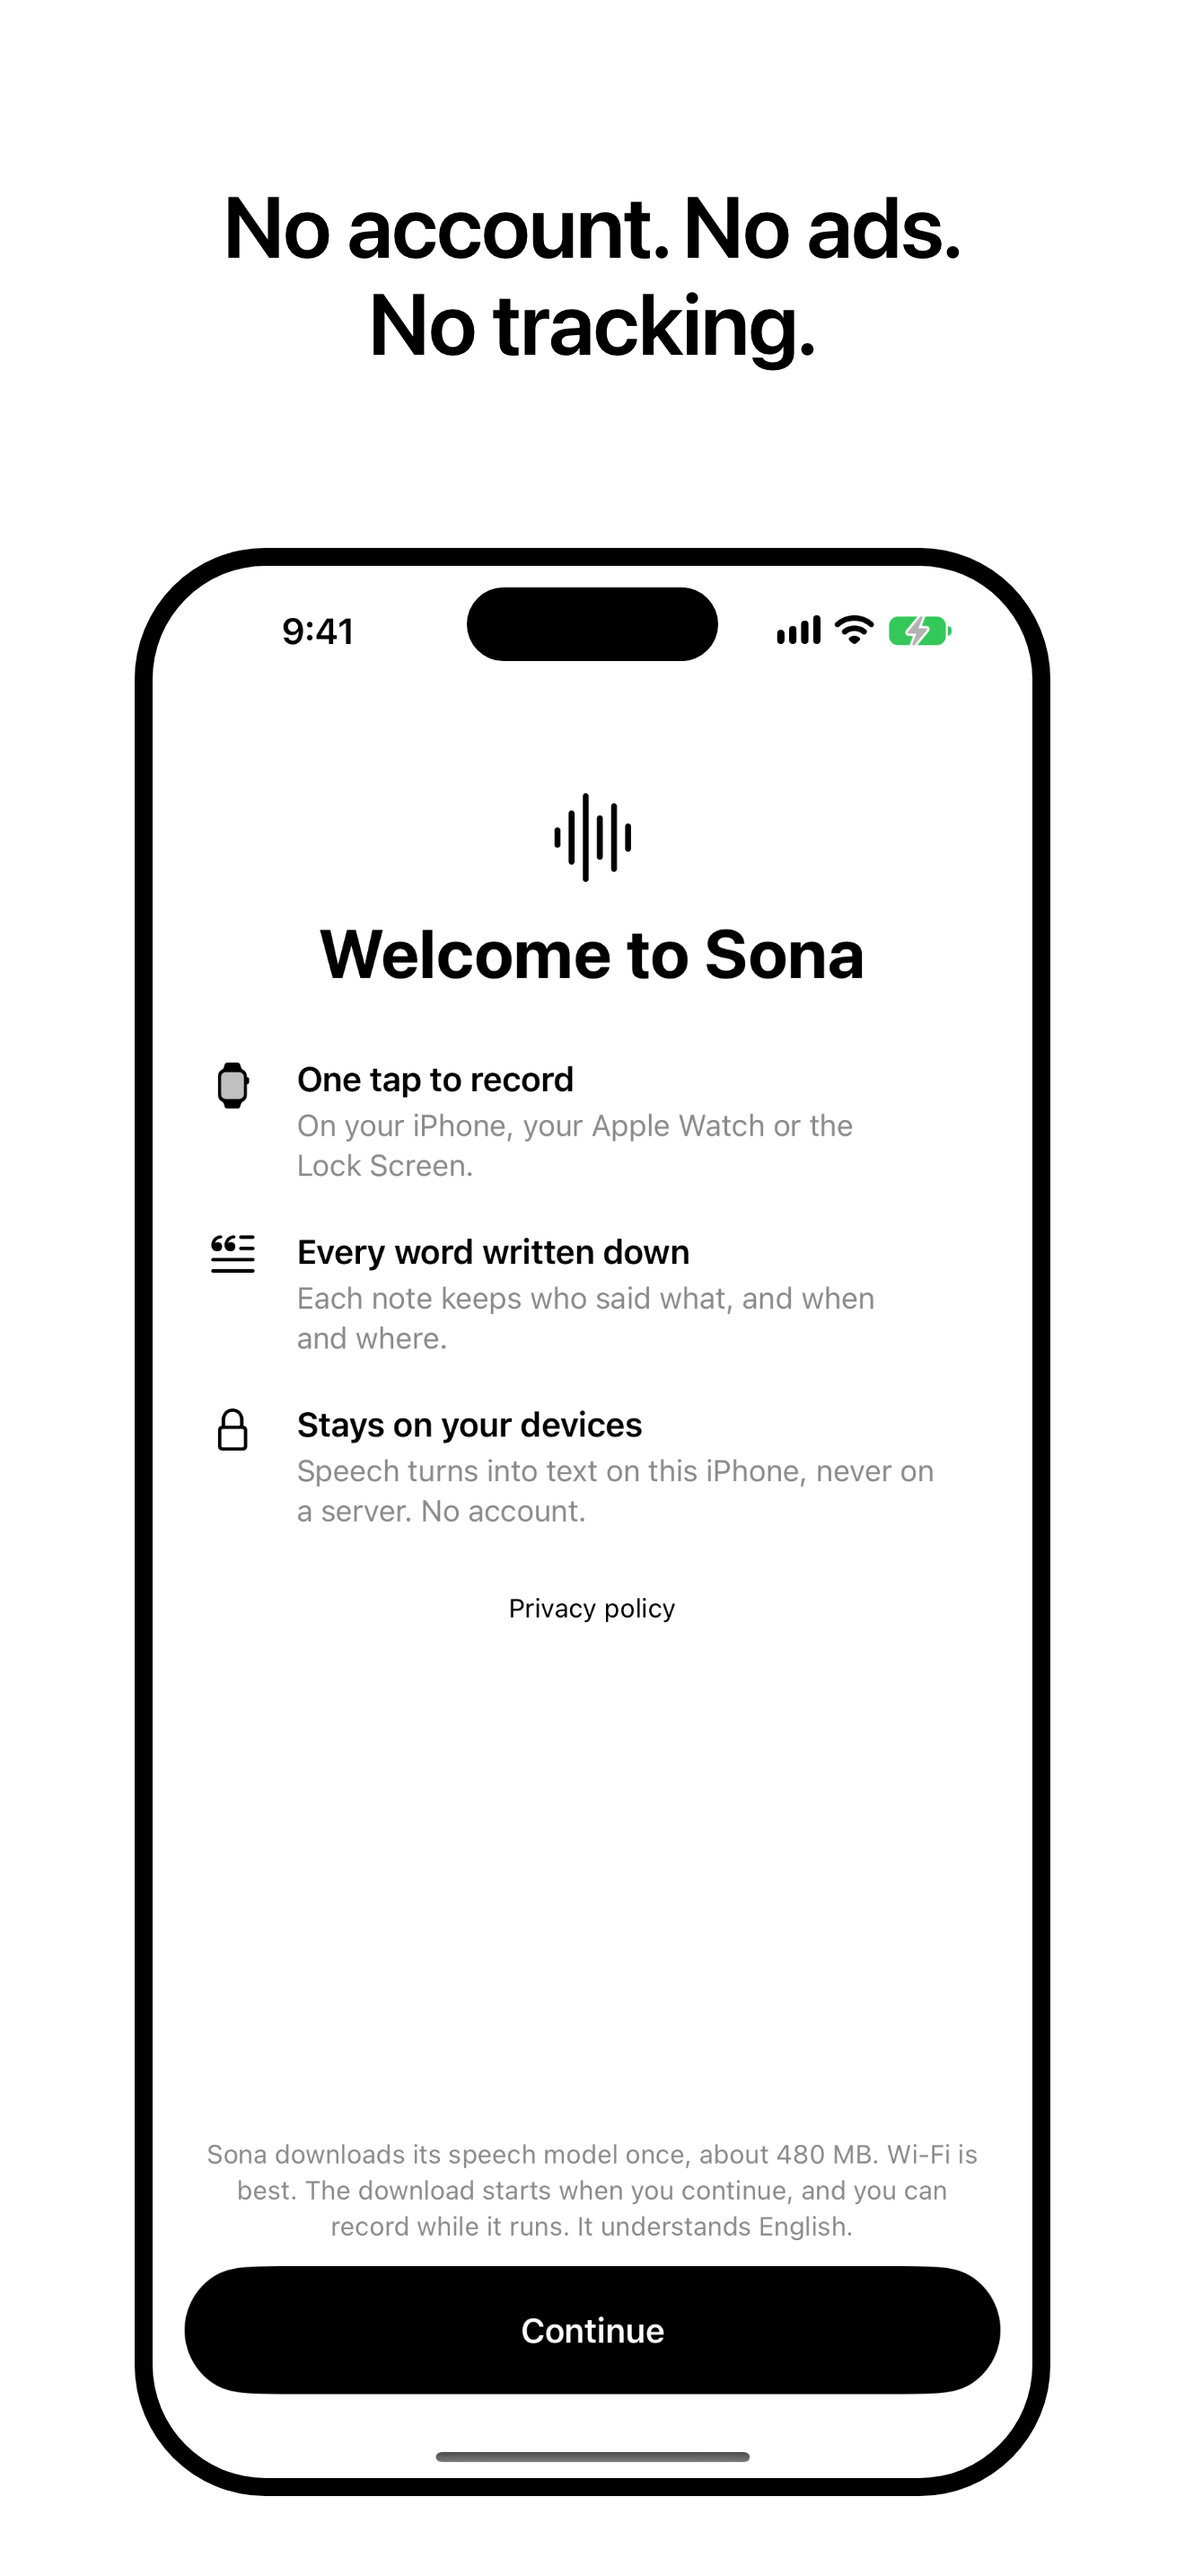
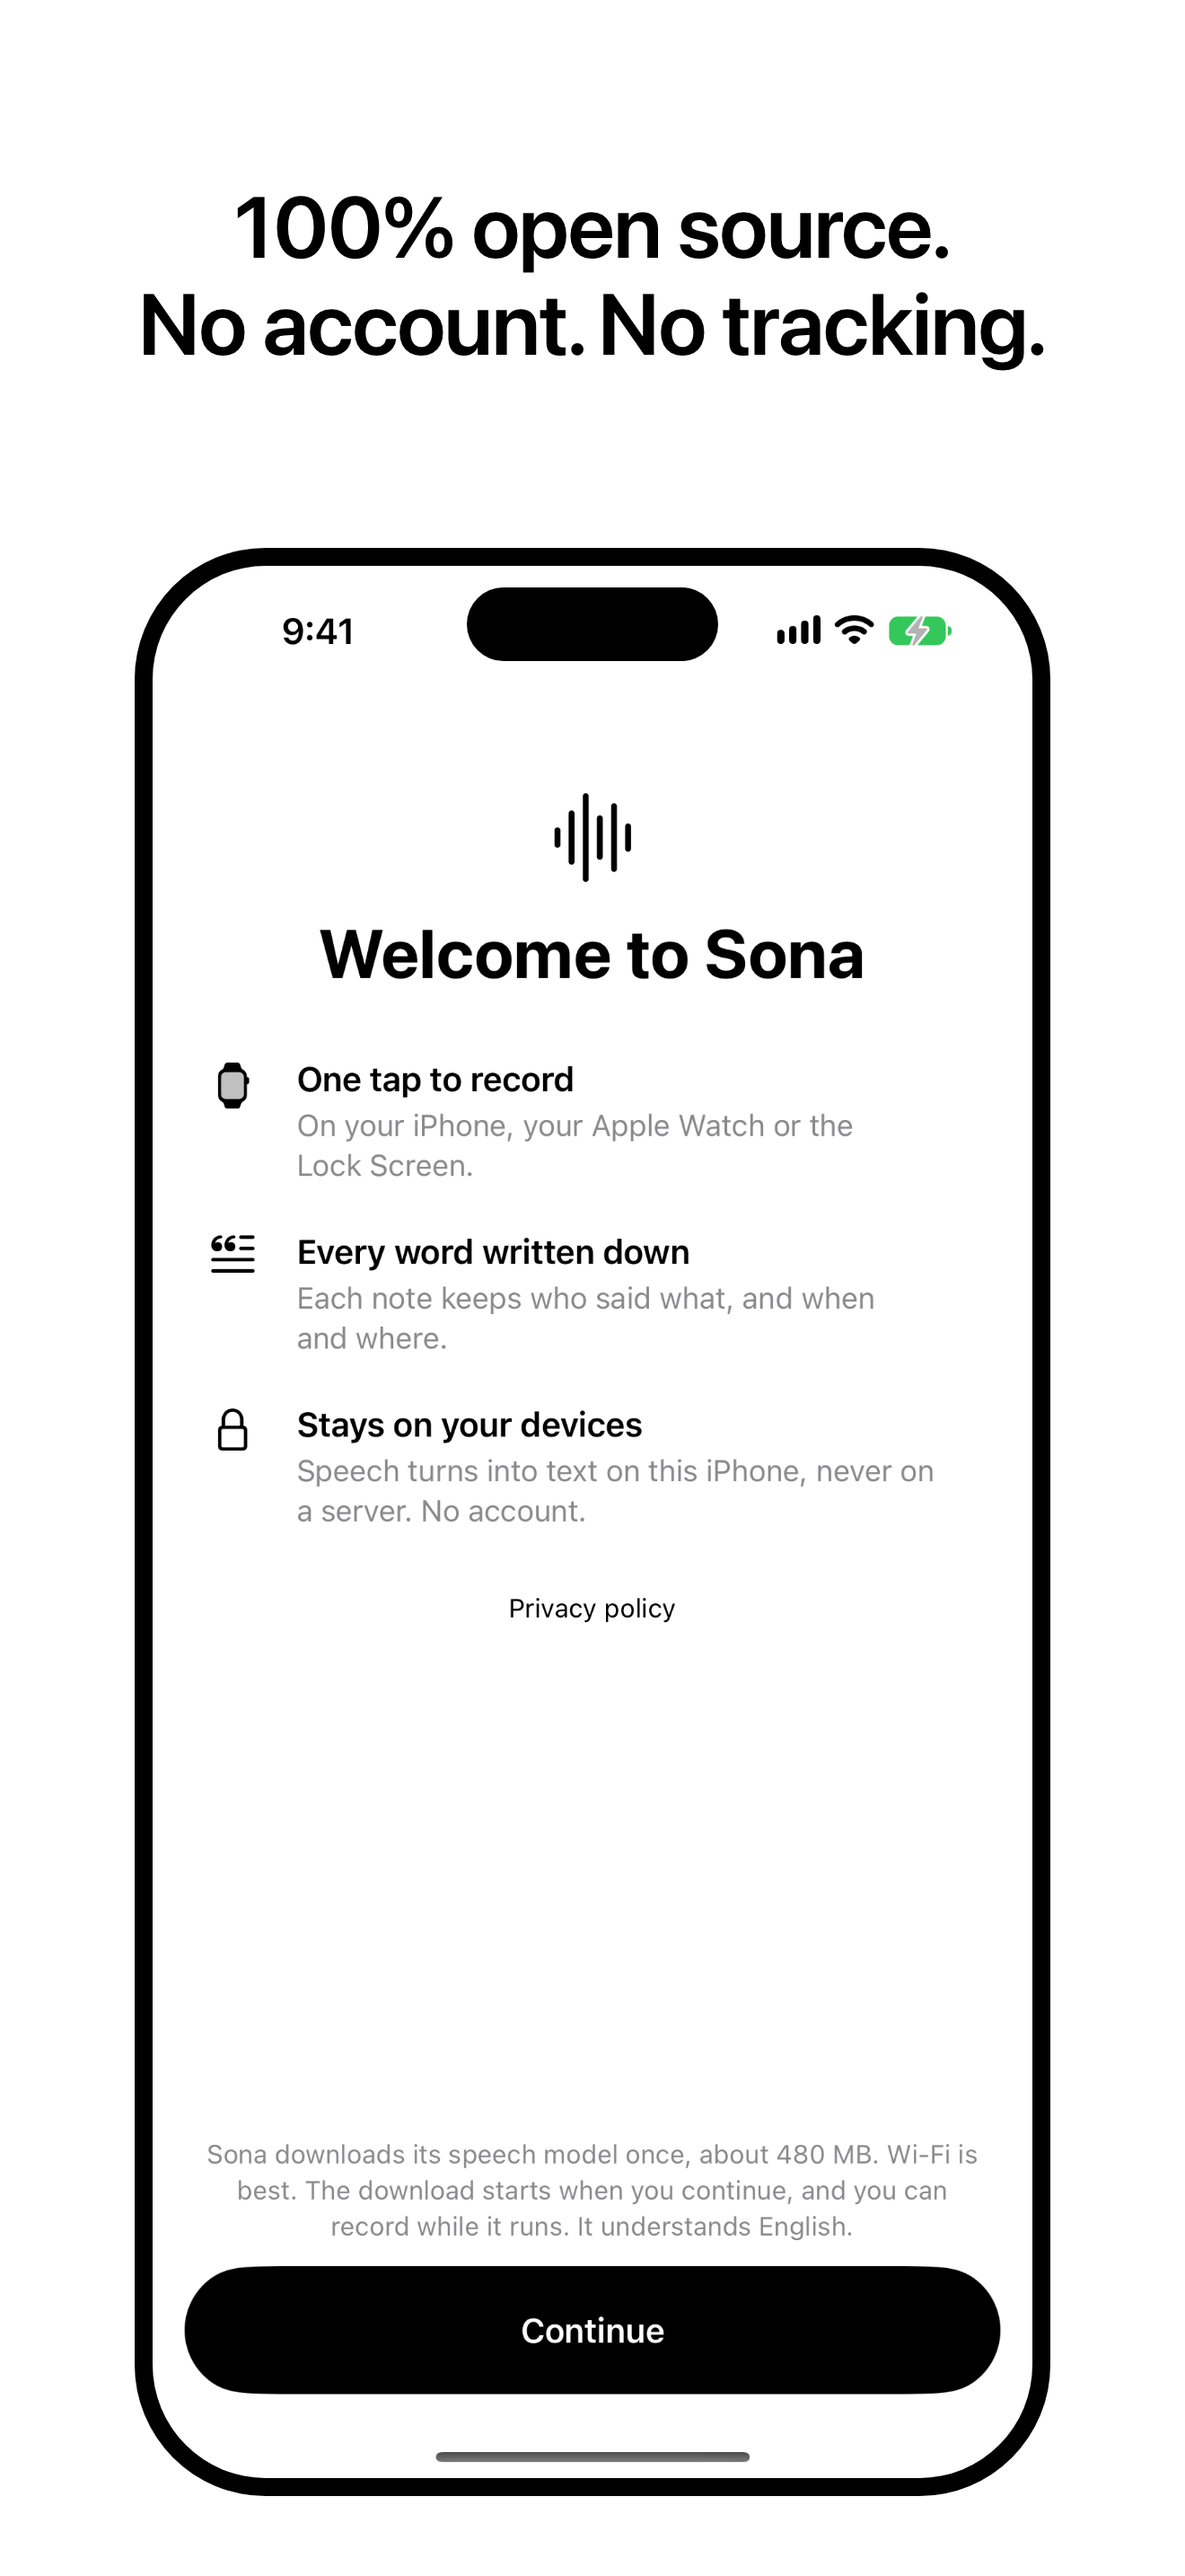
Say it plainly and truly: fully private, the AI lives on your iPhone and we never see a word; 100% open source on the last screenshot

Changed region(s): [[0.1242, 0.0621, 0.8697, 0.1552]]

diff --git a/design/app-store/screens.html b/design/app-store/screens.html
@@ -62,11 +62,11 @@
   // Every image: what it says and which real capture it shows. "\n" is where a caption breaks (two lines each).
   const images = {
     "iphone-1": { caption: "Tap record.\nSona writes it down.", shot: "captures/recording.png" },
-    "iphone-2": { caption: "100% open source.\nNothing leaves your iPhone.", shot: "captures/note.png" },
+    "iphone-2": { caption: "Fully private.\nThe AI lives on your iPhone.", shot: "captures/note.png" },
     "iphone-3": { caption: "Record from\nyour Apple Watch.", watch: "captures/watch-recording.png" },
     "iphone-4": { caption: "Plain Markdown files\nin your iCloud.", shot: "captures/home-dark.png", dark: true },
     "iphone-5": { caption: "Find any note\nby day or place.", shot: "captures/place.png" },
-    "iphone-6": { caption: "No account. No ads.\nNo tracking.", shot: "captures/welcome.png" },
+    "iphone-6": { caption: "100% open source.\nNo account. No tracking.", shot: "captures/welcome.png" },
     "social": { brand: true, line: "Voice to text, on your iPhone. No server.", small: "Open source" },
     "header": { brand: true, line: "Voice to text, on your iPhone. No server." },
   };

diff --git a/site/index.html b/site/index.html
@@ -46,7 +46,7 @@
   <div class="hero-copy">
     <h1>Sona</h1>
     <p class="lede">The notetaker that runs on your own devices.</p>
-    <p class="sub">Tap to record on your iPhone or Apple Watch, and it's written down on the phone itself. 100% free and 100% open source. Nothing you record leaves your devices: no account, no server, no tracking.</p>
+    <p class="sub">Tap to record on your iPhone or Apple Watch, and it's written down on the phone itself. 100% free and 100% open source. Fully private: the AI lives on your iPhone, and we never see a word you say. No account, no tracking.</p>
     <div class="actions">
       <!-- Placeholder until launch: swap for Apple's official "Download on the App Store" badge,
            linking to https://apps.apple.com/app/id6829732693 -->
